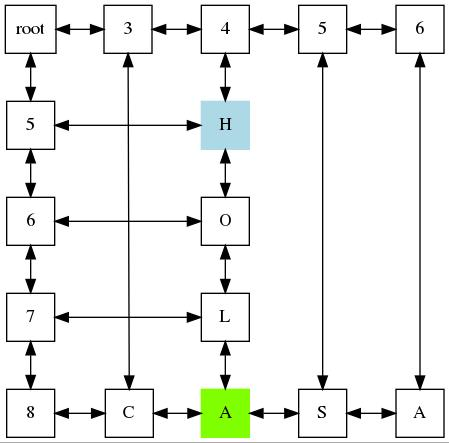
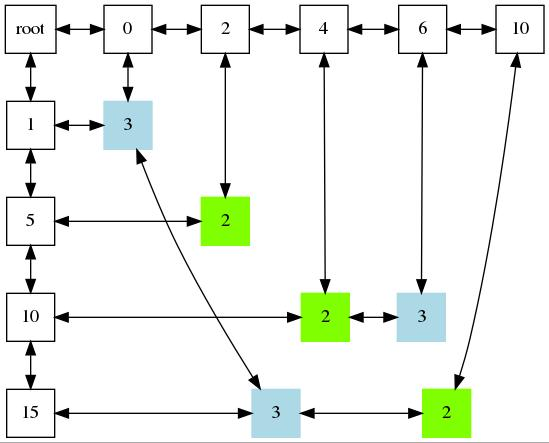
Ya solo probando y arreglando bugs

diff --git a/tablero.cpp b/tablero.cpp
@@ -16,9 +16,9 @@ void Tablero::escojerJugadores(){
     //while (true) {
         std::cout<<"Escoja al jugador 1"<<std::endl;
         std::cout<<"Escriba el nombre dell jugador 1"<<std::endl;
-        std::string player="Silvia";
+        //std::string player;
         //std::cin>>player;
-        NodoArbol *jugador1=core->arbol->get(player);
+        NodoArbol *jugador1=core->arbol->get("Silvia");
         std::cout<<"Escoja al jugador 2"<<std::endl;
         std::cout<<"Escriba el nombre dell jugador 2"<<std::endl;
         //std::cin>>player;
@@ -38,19 +38,30 @@ void Tablero::escojerJugadores(){
 
             }
             core->onlinePlayers->ingrear(jugador2);
-            core->matriz->insertar("4",4,"5",5,"H","triple",2);
+            /*core->matriz->insertar("4",4,"5",5,"H","triple",2);
             core->matriz->insertar("4",4,"6",6,"O","normal",3);
             core->matriz->insertar("4",4,"7",7,"L","normal",9);
             core->matriz->insertar("4",4,"8",8,"A","doble",2);
             core->matriz->insertar("3",3,"8",8,"C","normal",1);
             core->matriz->insertar("5",5,"8",8,"S","normal",8);
             core->matriz->insertar("6",6,"8",8,"A","normal",2);
-            //break;
+            //break;*/
         }else{
             std::cout<<"Jugadores incorrectos"<<std::endl;
             //break;
         }
     //}
+}
+
+void Tablero::prepararTablero(){
+    NodoListaSimple *temp=core->casillasEspeciales->primero;
+    while (temp!=NULL) {
+        if(temp->tipo=="doble")
+            core->matriz->insertar(std::to_string(temp->x),temp->x,std::to_string(temp->y),temp->y,"2",temp->tipo,0);
+        else if(temp->tipo=="triple")
+            core->matriz->insertar(std::to_string(temp->x),temp->x,std::to_string(temp->y),temp->y,"3",temp->tipo,0);
+        temp=temp->siguiente;
+    }
 }
 
 void Tablero::dibujaTablero(){
@@ -61,7 +72,11 @@ void Tablero::dibujaTablero(){
         std::cout<<"**********************************************************"<<std::endl;
         std::cout<<core->onlinePlayers->mostrarJugadores()<<std::endl;
         std::cout<<"        Turno de: "+actualJugador->jugador->dato+"\n"<<std::endl;
-        std::cout<<core->matriz->mostrarMatriz()<<std::endl;
+        std::cout<<"Casillas especiales: "<<std::endl;
+        core->casillasEspeciales->toString();
+        std::cout<<"Diccionario: "<<std::endl;
+        std::cout<<core->diccionario->mostrarDiccionario();
+        //std::cout<<core->matriz->mostrarMatriz()<<std::endl;
         std::cout<<actualJugador->jugador->dato+" ingrese el numero de letras a utilizar ->";
         std::vector<std::vector<int>> entradas;
         listaJugadas *listJ=new listaJugadas();
@@ -106,8 +121,8 @@ void Tablero::dibujaTablero(){
                 core->scoreboard->insertar(core->onlinePlayers->inicio->jugador->dato,core->onlinePlayers->inicio->jugador->puntos);
                 core->scoreboard->insertar(core->onlinePlayers->fin->jugador->dato,core->onlinePlayers->fin->jugador->puntos);
                 core->onlinePlayers->vaciar();
-                std::string algo;
-                std::cin>>algo;
+                //std::string algo;
+                //std::cin>>algo;
                 break;
             }else if (numeroLetras=="cambiar") {
                 cambiarFichas(actualJugador);
@@ -153,10 +168,14 @@ bool Tablero::colocarLetras(listaJugadas *v,int orientacion,NodoJugadoresLinea *
     nodoJugada *temp=v->primero;
     while (temp!=NULL) {
         NodoListaSimple *aux=core->casillasEspeciales->buscar(temp->x,temp->y);
-        NodoFicha *ficha=actualPlayer->jugador->fichas->getFichas(temp->pos);       //Puede cambiarse para que sea temp.letra o hacer un  nodoFicha
-        temp->letra=ficha->letra;
-        temp->puntos=ficha->puntos;
-        core->matriz->insertar(std::to_string(temp->x),temp->x,std::to_string(temp->y),temp->y,ficha->letra,aux->tipo,ficha->puntos);
+        NodoFicha *ficha=actualPlayer->jugador->fichas->getFichas(temp->pos);
+        if(aux->tipo=="normal"){
+            temp->letra=ficha->letra;
+            temp->puntos=ficha->puntos;
+            core->matriz->insertar(std::to_string(temp->x),temp->x,std::to_string(temp->y),temp->y,ficha->letra,aux->tipo,ficha->puntos);
+        }else{
+            core->matriz->modificar(ficha->letra,ficha->puntos,temp->x,temp->y);
+        }
         temp=temp->siguiente;
     }
 
@@ -176,7 +195,13 @@ bool Tablero::colocarLetras(listaJugadas *v,int orientacion,NodoJugadoresLinea *
         }else{
             nodoJugada *temp=v->primero;
             while (temp!=NULL) {
-                core->matriz->borrar(std::to_string(temp->x),temp->x,std::to_string(temp->y),temp->y);
+                NodoListaSimple *aux=core->casillasEspeciales->buscar(temp->x,temp->y);
+                if(aux->tipo=="normal")
+                    core->matriz->borrar(std::to_string(temp->x),temp->x,std::to_string(temp->y),temp->y);
+                else if(aux->tipo=="doble")
+                    core->matriz->modificar("x2",0,temp->x,temp->y);
+                else
+                    core->matriz->modificar("x3",0,temp->x,temp->y);
                 actualPlayer->jugador->fichas->insertar(temp->letra,temp->puntos);
                 temp=temp->siguiente;
             }
@@ -200,8 +225,14 @@ bool Tablero::colocarLetras(listaJugadas *v,int orientacion,NodoJugadoresLinea *
         }else {
             nodoJugada *temp=v->primero;
             while (temp!=NULL) {
+                NodoListaSimple *aux=core->casillasEspeciales->buscar(temp->x,temp->y);
+                if(aux->tipo=="normal")
+                    core->matriz->borrar(std::to_string(temp->x),temp->x,std::to_string(temp->y),temp->y);
+                else if(aux->tipo=="doble")
+                    core->matriz->modificar("x2",0,temp->x,temp->y);
+                else
+                    core->matriz->modificar("x3",0,temp->x,temp->y);
                 actualPlayer->jugador->fichas->insertar(temp->letra,temp->puntos);
-                core->matriz->borrar(std::to_string(temp->x),temp->x,std::to_string(temp->y),temp->y);
                 temp=temp->siguiente;
             }
             return false;
@@ -225,11 +256,17 @@ void Tablero::cambiarFichas(NodoJugadoresLinea *jugador){
         }else{
             std::cout<<"Ingrese el (los) numero(s) de posicion de ficha(s) que va a cambiar"<<std::endl;
             for (int var = 0; var < auxcantefichas; ++var) {
-                NodoFicha *auxficha=jugador->jugador->fichas->getFichas(var);
+                std::string pos;
+                std::cin>>pos;
+                int auxpos=stoi(pos);
+                NodoFicha *auxficha=jugador->jugador->fichas->getFichas(auxpos);
                 core->Fichas->encolar(auxficha->letra,auxficha->puntos);
+                NodoCola *ficha2=core->Fichas->desencolar();
+                jugador->jugador->fichas->insertar(ficha2->letra,ficha2->puntos);
                 std::cout<<"Fichas cambiadas con exito"<<std::endl;
-                break;
+                //break;
             }
+            break;
         }
     }
 }

diff --git a/matriz.cpp b/matriz.cpp
@@ -172,7 +172,7 @@ std::string Matriz::mostrarMatriz(){
     std::string auxmatriz[this->size+1][this->size+1];
     NodoH *temp=this->cabecerasHorizontal->primero;
     while (temp!=NULL) {
-        auxmatriz[temp->x+1][0]=temp->dato;
+        auxmatriz[temp->x+1][0]=temp->dato+"";
         NodoMatriz *aux=temp->listavertica->primero;
         while (aux!=NULL) {
             auxmatriz[aux->x+1][aux->y+1]=aux->dato;
@@ -181,6 +181,7 @@ std::string Matriz::mostrarMatriz(){
         temp=temp->adelante;
     }
     Nodo *auxtemp=this->cabeceravertical->primero;
+    auxmatriz[0][0]="R";
     while (auxtemp!=NULL) {
         auxmatriz[0][auxtemp->y+1]=auxtemp->dato;
         auxtemp=auxtemp->abajo;
@@ -196,6 +197,7 @@ std::string Matriz::mostrarMatriz(){
                 cadena+=" ";
             }
         }
+        //if(auxmatriz[0][var]!="")
         cadena+="\n";
     }
     return cadena;
@@ -256,4 +258,18 @@ bool Matriz::existe(int x, int y){
         vtemp=vtemp->abajo;
     }
     return false;
+}
+
+void Matriz::modificar(std::string nuevodato, int nuevopunto, int x, int y){
+    Nodo *auxcabecera=cabeceravertical->primero;
+    while (auxcabecera!=NULL) {
+        NodoMatriz *auxnodo=auxcabecera->listahorizonta->primero;
+        while (auxnodo!=NULL) {
+            if(auxnodo->x==x && auxnodo->y ==y){
+                auxnodo->dato=nuevodato;
+                auxnodo->puntos=nuevopunto;
+            }
+
+        }
+    }
 }

diff --git a/listadoblecircular.cpp b/listadoblecircular.cpp
@@ -26,6 +26,18 @@ void ListaDobleCircular::insertar(std::string dato){
      }
      this->size++;
 }
+
+std::string ListaDobleCircular::mostrarDiccionario(){
+    std::string cadena="";
+    NodoCircular *aux=this->primero;
+    while (aux!=ultimo) {
+        cadena+=aux->palabra+"\n";
+        aux=aux->siguiente;
+    }
+    cadena+=aux->palabra+"\n";
+    return cadena;
+}
+
 std::string ListaDobleCircular::toString(){
     NodoCircular *aux=this->primero;
     std::string cadena="digraph G {\n node [shape = square]; \n graph [rankdir=LR];\n";

diff --git a/main.cpp b/main.cpp
@@ -67,7 +67,11 @@ int main()
             break;
         case 3:
             tablero->escojerJugadores();
+            tablero->prepararTablero();
             tablero->dibujaTablero();
+            break;
+        case 4:
+            tablero->mostrarReportes();
             break;
         case 5:
             exit(EXIT_SUCCESS);

diff --git a/tablero.h b/tablero.h
@@ -110,6 +110,7 @@ public:
     Core *core;
     Tablero(Core *core);
     void escojerJugadores();
+    void prepararTablero();
     void dibujaTablero();
     bool colocarLetras(listaJugadas *v,int orientacion,NodoJugadoresLinea *actualPlayer);
     bool verificarIndices(std::vector<std::vector<int>> v,listaJugadas *listJ);

diff --git a/listadoble.cpp b/listadoble.cpp
@@ -56,7 +56,7 @@ NodoFicha* ListaDoble::getFichas(int pos){
             }
             cur->atras->siguiente=cur->siguiente;
             cur->siguiente->atras=cur->atras;
-            this->size++;
+            this->size--;
             return cur;
         }
     }

diff --git a/matriz.h b/matriz.h
@@ -24,6 +24,7 @@ public:
     std::string buscar(int x, int y);
     int sumar(int x, int y);
     bool existe(int x, int y);
+    void modificar(std::string nuevodato,int nuevopunto, int x , int y);
 };
 
 #endif // MATRIZ_H

diff --git a/listadoblecircular.h b/listadoblecircular.h
@@ -26,6 +26,7 @@ public:
     bool contains(std::string buscar);
     std::string toString();
     void graficar();//falta graficar
+    std::string mostrarDiccionario();
 };
 
 #endif // LISTADOBLECIRCULAR_H
